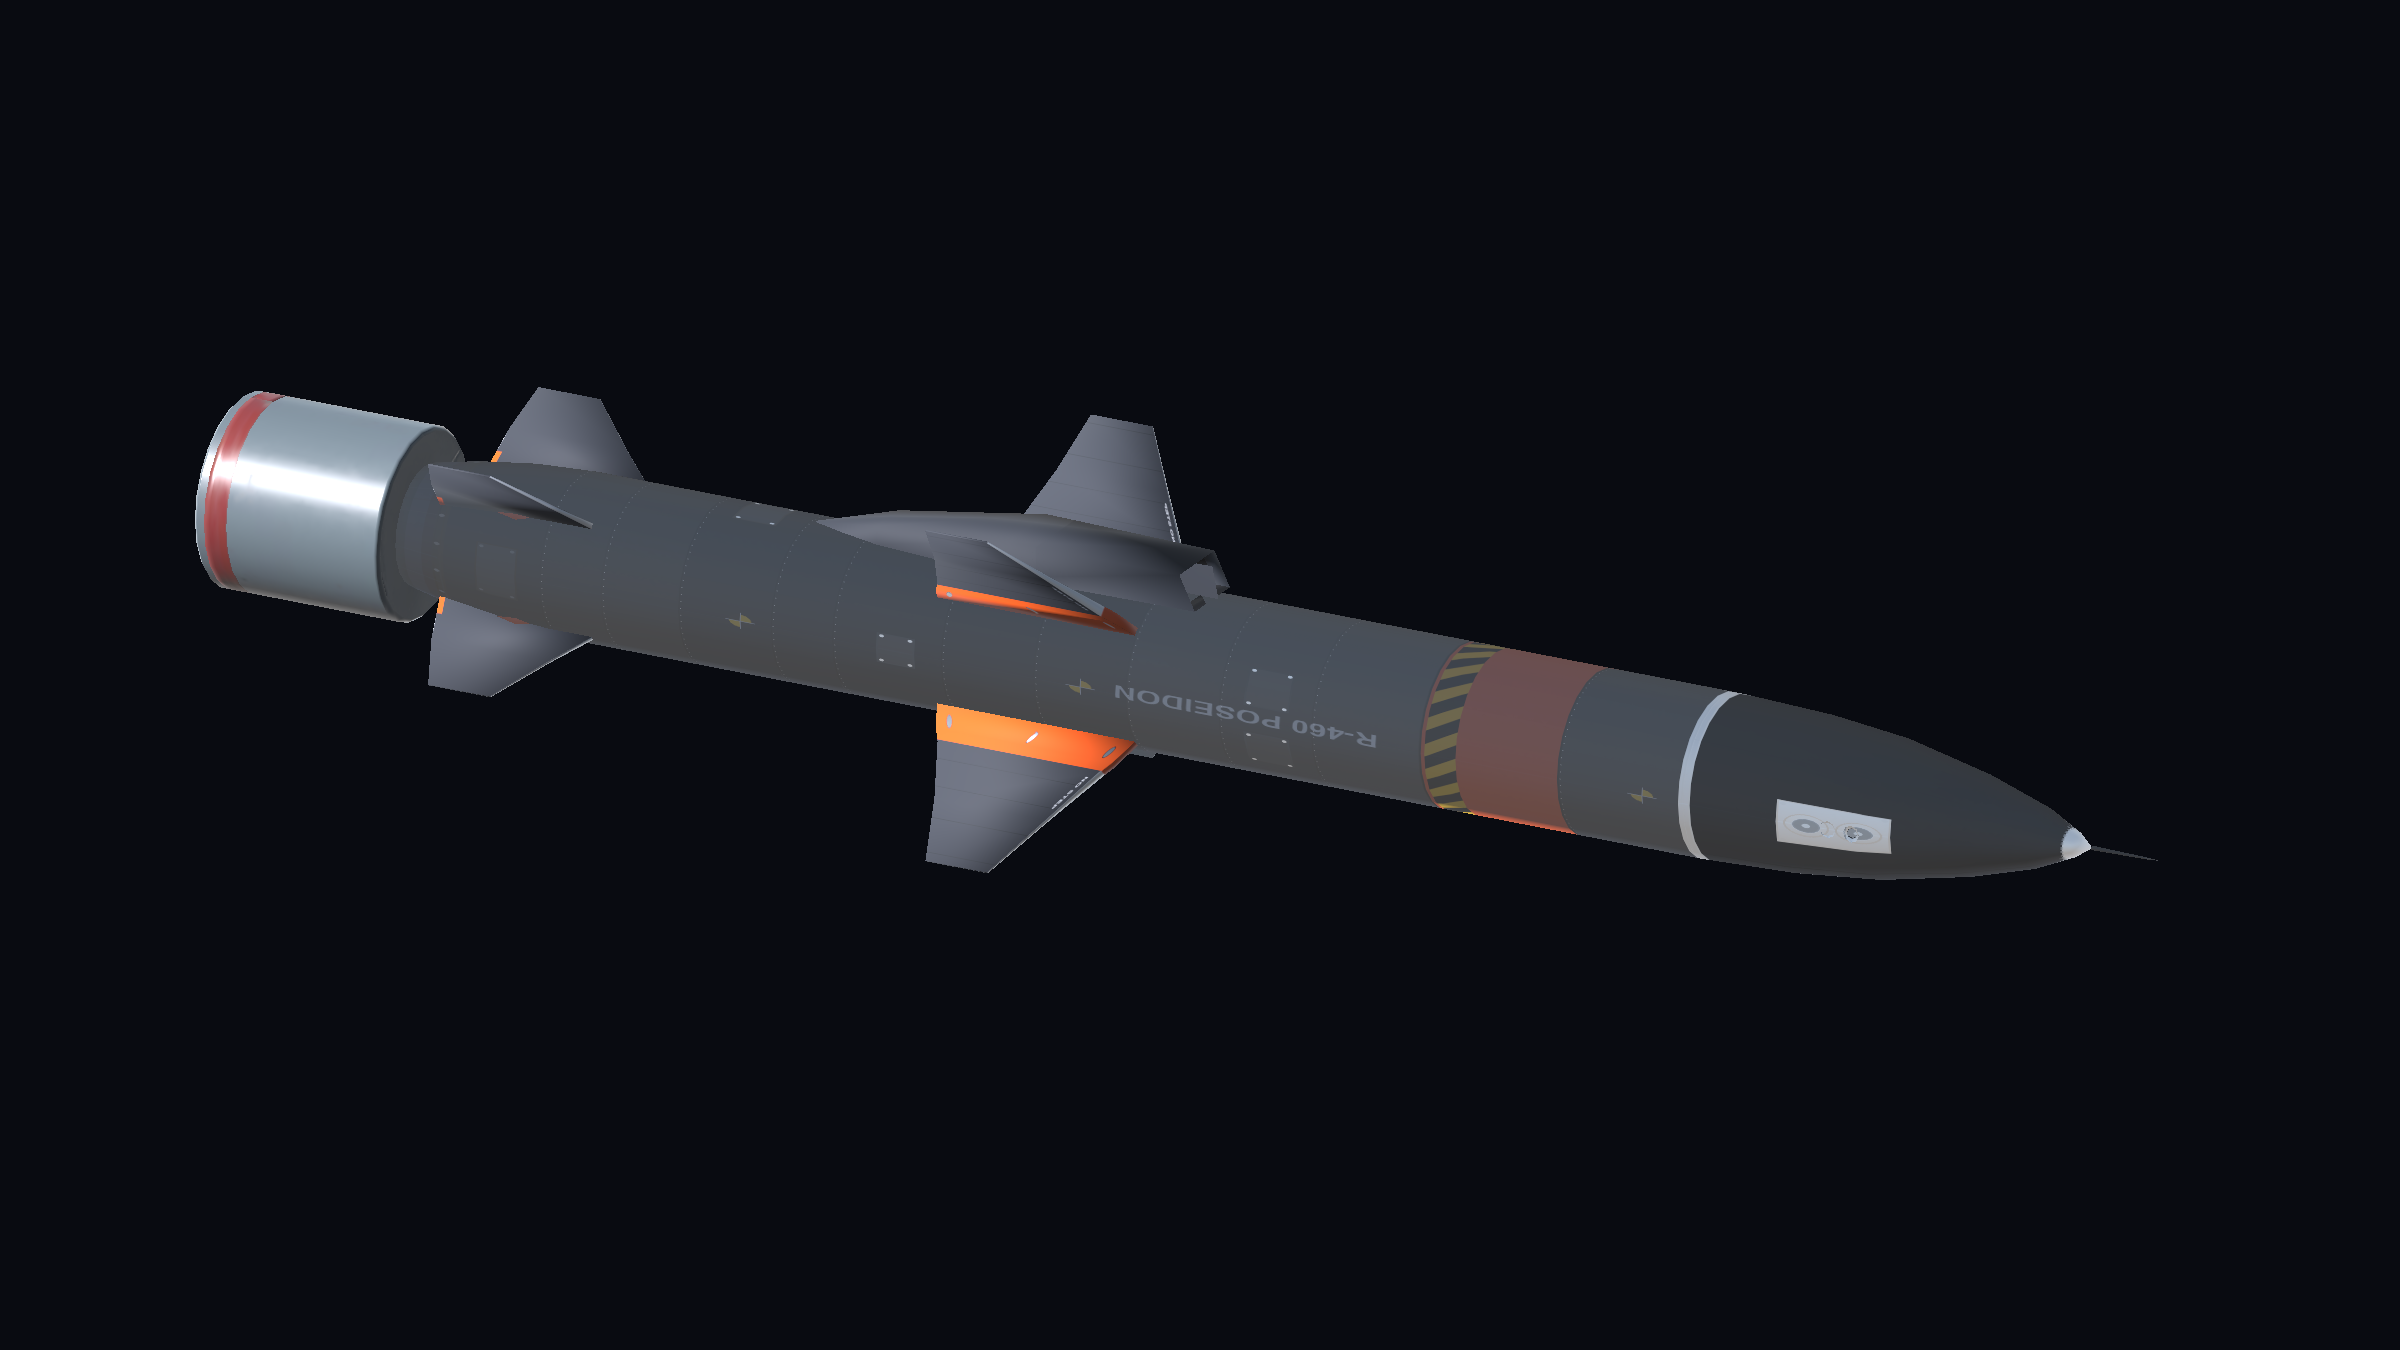
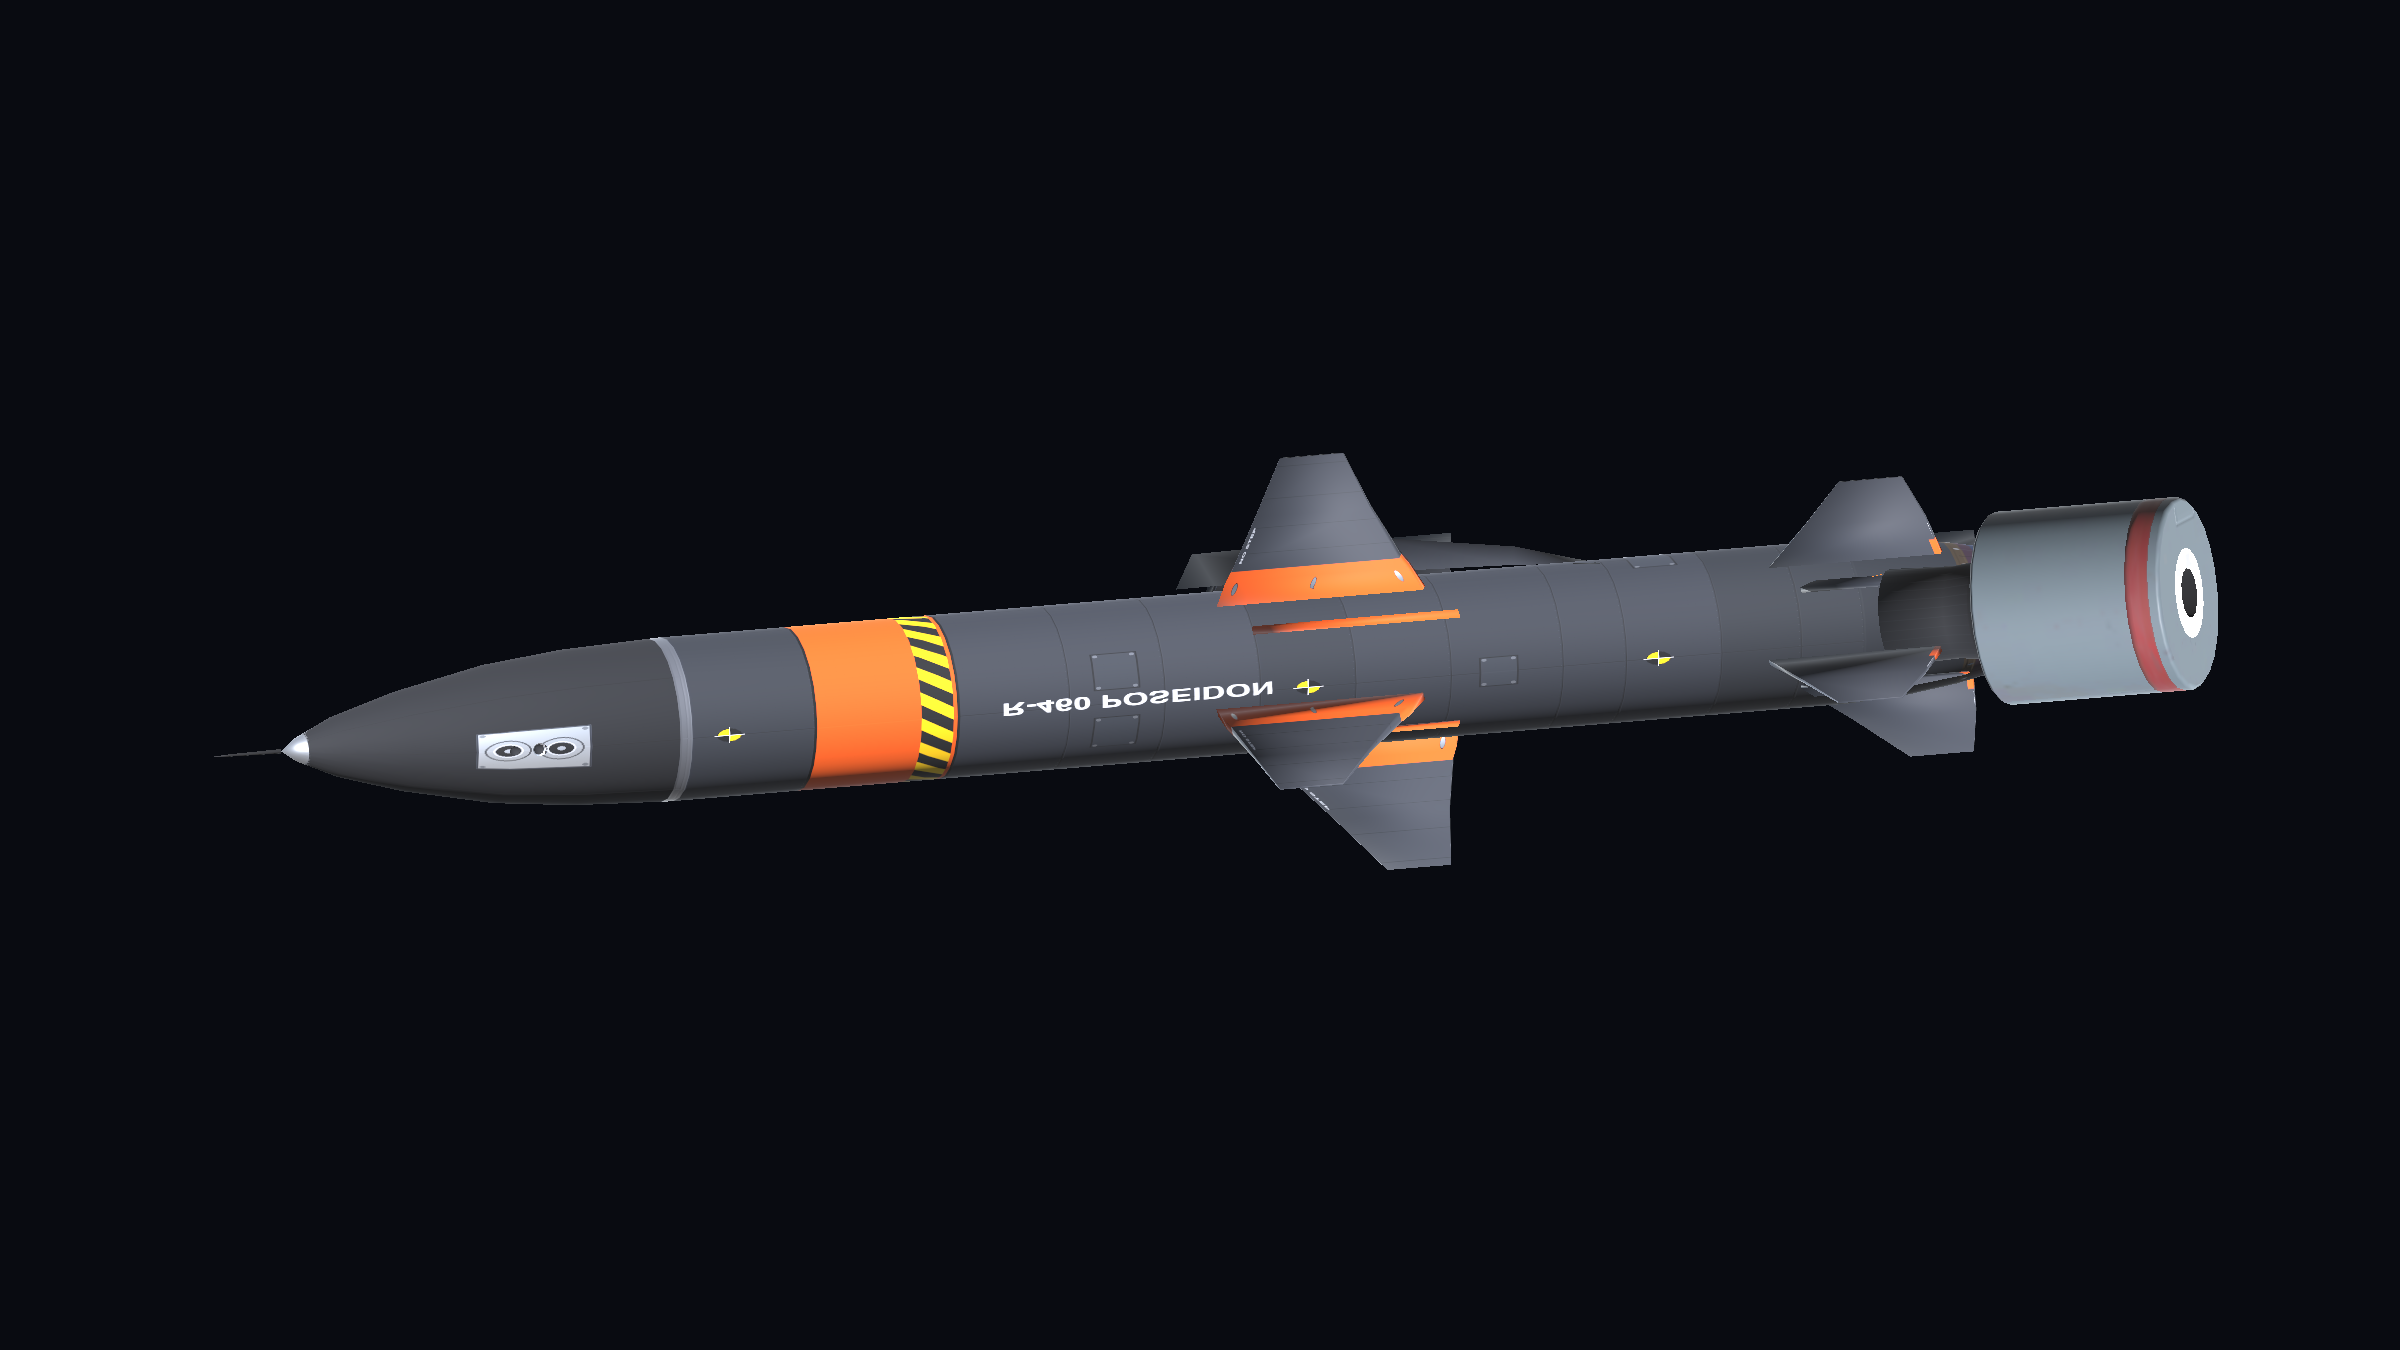
Improve Poseidon gallery materials and remove duplicate render

Changed region(s): [[0.0625, 0.28, 0.9375, 0.6533]]

diff --git a/docs/GALLERY.md b/docs/GALLERY.md
@@ -3,8 +3,9 @@
 Unity renders of the combined pack's actual editable prefabs, at 2400 × 1350 pixels.
 
 ## R-460 Poseidon
-![Poseidon conventional](images/poseidon.png)
-![Poseidon nuclear](images/poseidon-nuclear.png)
+The conventional and nuclear aircraft variants share the same exterior, shown once below.
+
+![Poseidon aircraft variants](images/poseidon.png)
 ![Poseidon TEL missile](images/poseidon-tel.png)
 
 ## HSM-290 Killjoy
